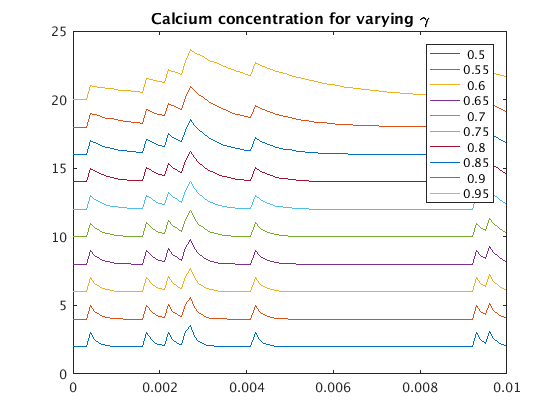
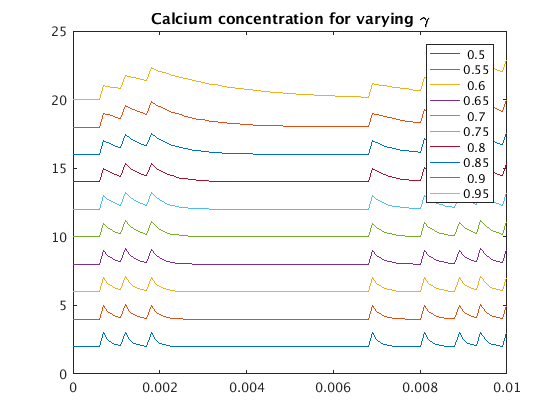
update ARmodel tutorial

diff --git a/tutorial/html/ARmodel.html b/tutorial/html/ARmodel.html
@@ -6,7 +6,7 @@
    <!--
 This HTML was auto-generated from MATLAB code.
 To make changes, update the MATLAB code and republish this document.
-      --><title>Autoregressive Model for Calcium Dynamics</title><meta name="generator" content="MATLAB 9.0"><link rel="schema.DC" href="http://purl.org/dc/elements/1.1/"><meta name="DC.date" content="2016-11-22"><meta name="DC.source" content="ARmodel.m"><style type="text/css">
+      --><title>Autoregressive Model for Calcium Dynamics</title><meta name="generator" content="MATLAB 9.0"><link rel="schema.DC" href="http://purl.org/dc/elements/1.1/"><meta name="DC.date" content="2016-12-06"><meta name="DC.source" content="ARmodel.m"><style type="text/css">
 html,body,div,span,applet,object,iframe,h1,h2,h3,h4,h5,h6,p,blockquote,pre,a,abbr,acronym,address,big,cite,code,del,dfn,em,font,img,ins,kbd,q,s,samp,small,strike,strong,sub,sup,tt,var,b,u,i,center,dl,dt,dd,ol,ul,li,fieldset,form,label,legend,table,caption,tbody,tfoot,thead,tr,th,td{margin:0;padding:0;border:0;outline:0;font-size:100%;vertical-align:baseline;background:transparent}body{line-height:1}ol,ul{list-style:none}blockquote,q{quotes:none}blockquote:before,blockquote:after,q:before,q:after{content:'';content:none}:focus{outine:0}ins{text-decoration:none}del{text-decoration:line-through}table{border-collapse:collapse;border-spacing:0}
 
 html { min-height:100%; margin-bottom:1px; }
@@ -79,7 +79,7 @@ spikes = zeros(dur/dt+1,1);
         spikes(t) = 1;
     <span class="keyword">end</span>
 <span class="keyword">end</span>
-</pre><h2>Applying the AR model to Action Potentials<a name="2"></a></h2><p>Before implementing the calculation, consider what each of the parameters in the model does. Look again at the AR model.</p><p><img src="ARmodel_eq06263262507588699212.png" alt="$c(t) = \sum_{j=1}^p\gamma_jc(t-j)+s(t)$"></p><p>Consider the following for <img src="ARmodel_eq12081968486337205601.png" alt="$p=1$">: * What does the parameter <img src="ARmodel_eq15212781520413577972.png" alt="$\gamma_1$"> represent? * How do changes to <img src="ARmodel_eq15212781520413577972.png" alt="$\gamma_1$"> affect the calcium signal? * What are reasonable values for this parameter?</p><p>Look at what happens when we vary <img src="ARmodel_eq15212781520413577972.png" alt="$\gamma_1$">:</p><pre class="codeinput">p = 1;
+</pre><h2>Applying the AR model to Action Potentials<a name="2"></a></h2><p>Before implementing the calculation, consider what each of the parameters in the model does. Look again at the AR model.</p><p><img src="ARmodel_eq06263262507588699212.png" alt="$c(t) = \sum_{j=1}^p\gamma_jc(t-j)+s(t)$"></p><p>Consider the following for <img src="ARmodel_eq12081968486337205601.png" alt="$p=1$">:</p><div><ul><li>What does the parameter <img src="ARmodel_eq15212781520413577972.png" alt="$\gamma_1$"> represent?</li><li>How do changes to <img src="ARmodel_eq15212781520413577972.png" alt="$\gamma_1$"> affect the calcium signal?</li><li>What are reasonable values for this parameter?</li></ul></div><p>Look at what happens when we vary <img src="ARmodel_eq15212781520413577972.png" alt="$\gamma_1$">:</p><pre class="codeinput">p = 1;
 Gamma = (.5:.05:.99);
 calcium = zeros(length(spikes),numel(Gamma));
 <span class="keyword">for</span> g = 1:numel(Gamma)
@@ -95,16 +95,54 @@ legend(num2str(Gamma'))
 </pre><img vspace="5" hspace="5" src="ARmodel_01.png" alt=""> <p>Can you tell what's happening? What if we overlay the plots of the calcium signal with the highest and lowest values of <img src="ARmodel_eq17096441642737911057.png" alt="$\gamma$">.</p><pre class="codeinput">figure(2); plot((0:dt:dur),calcium(:,[1,g]))
 legend(num2str(Gamma([1,g])'))
 title(<span class="string">'Comparison of traces with high and low \gamma'</span>)
-</pre><img vspace="5" hspace="5" src="ARmodel_02.png" alt=""> <p>Let's do one more comparison: are the peaks in the same place?</p><pre class="codeinput">[~,peaklocs] = arrayfun(@(i) findpeaks(calcium(:,i),[1;g]),<span class="keyword">...</span>
+</pre><img vspace="5" hspace="5" src="ARmodel_02.png" alt=""> <p>Let's do one more comparison: are the peaks in the same place?</p><pre class="codeinput">[~,peaklocs] = arrayfun(@(i) findpeaks(calcium(:,i)),[1;g],<span class="keyword">...</span>
     <span class="string">'uniformoutput'</span>,false);
 disp(cat(2,peaklocs{:}))
-</pre><pre class="codeoutput error">Error using arrayfun
-All of the input arguments must be of the same size and shape.
-Previous inputs had size 13 in dimension 2. Input #3 has size 1
+</pre><pre class="codeoutput">     8     8
+    13    13
+    19    19
+    70    70
+    82    82
+    90    90
+    95    95
 
-Error in ARmodel (line 53)
-[~,peaklocs] = arrayfun(@(i) findpeaks(calcium(:,i),[1;g]),...
-</pre><p class="footer"><br><a href="http://www.mathworks.com/products/matlab/">Published with MATLAB&reg; R2016a</a><br></p></div><!--
+</pre><p>Great! Looks like yes! Now, let's look at what happens when <img src="ARmodel_eq03564621074447017616.png" alt="$p=2$">. We will start by holding <img src="ARmodel_eq15212781520413577972.png" alt="$\gamma_1$"> constant and varying <img src="ARmodel_eq02298748245043383986.png" alt="$\gamma_2$">.</p><pre class="codeinput">p = 2;
+gamma1 = 0.5;
+Gamma = -(0:.05:.5);
+calcium = zeros(length(spikes),numel(Gamma));
+<span class="keyword">for</span> g = 1:numel(Gamma)
+    gamma = [gamma1; Gamma(g)];
+    <span class="keyword">for</span> t = 3:length(spikes)
+        calcium(t,g) = gamma(1)*calcium(t-1,g)+gamma(2)*calcium(t-2,g)+spikes(t);
+    <span class="keyword">end</span>
+    figure(3); plot((0:dt:dur),calcium(:,g)+2*g); hold <span class="string">on</span>
+<span class="keyword">end</span>
+title(<span class="string">'Calcium concentration for \gamma_1=0.5 with varying \gamma_2'</span>)
+hold <span class="string">off</span>;
+legend(num2str(Gamma'))
+</pre><img vspace="5" hspace="5" src="ARmodel_03.png" alt=""> <p>Look at the values of <tt>Gamma</tt>. Why do you think those values were chosen? Change the parameters and see what happens. Try the following:</p><div><ul><li>Gamma = (0:.05:.5);</li><li>Gamma = (.2:.05:.7);</li><li>Gamma = -(1.2:.05:1.7);</li></ul></div><p>See if you can explain the behavior that you see in each plot.</p><p>Can you tell what's happening this time? Let's do the same as before and overlay the plots of the calcium signal with the highest and lowest values of <img src="ARmodel_eq17096441642737911057.png" alt="$\gamma$">.</p><pre class="codeinput">figure(4); plot((0:dt:dur),calcium(:,[1,g]))
+legend(num2str(Gamma([1,g])'))
+title(<span class="string">'Comparison of traces with high and low \gamma_2'</span>)
+</pre><img vspace="5" hspace="5" src="ARmodel_04.png" alt=""> <p>There are some pretty obvious differences now. Okay, now that we have seen that, let's see what happens when we hold <img src="ARmodel_eq02298748245043383986.png" alt="$\gamma_2$"> constant and vary <img src="ARmodel_eq15212781520413577972.png" alt="$\gamma_1$">.</p><pre class="codeinput">p = 2;
+gamma2 = 0.5;
+Gamma = (0:.05:.49);
+calcium = zeros(length(spikes),numel(Gamma));
+<span class="keyword">for</span> g = 1:numel(Gamma)
+    gamma = [Gamma(g); gamma2];
+    <span class="keyword">for</span> t = 3:length(spikes)
+        calcium(t,g) = gamma(1)*calcium(t-1,g)+gamma(2)*calcium(t-2,g)+spikes(t);
+    <span class="keyword">end</span>
+    figure(5); plot((0:dt:dur),calcium(:,g)+2*g); hold <span class="string">on</span>
+<span class="keyword">end</span>
+title(<span class="string">'Calcium concentration for \gamma_2=0.5 with varying \gamma_1'</span>)
+hold <span class="string">off</span>;
+legend(num2str(Gamma'))
+
+<span class="comment">% Compare highest and lowest values of gamma(2)</span>
+figure(6); plot((0:dt:dur),calcium(:,[1,g]))
+legend(num2str(Gamma([1,g])'))
+title(<span class="string">'Comparison of traces with high and low \gamma_1'</span>)
+</pre><img vspace="5" hspace="5" src="ARmodel_05.png" alt=""> <img vspace="5" hspace="5" src="ARmodel_06.png" alt=""> <p>Look at what you see and think about how different values of the AR coefficients change the behavior of the calcium signal.</p><p class="footer"><br><a href="http://www.mathworks.com/products/matlab/">Published with MATLAB&reg; R2016a</a><br></p></div><!--
 ##### SOURCE BEGIN #####
 %% Autoregressive Model for Calcium Dynamics
 % Explain what an autoregressive model is and how this applies
@@ -131,6 +169,7 @@ end
 % $c(t) = \sum_{j=1}^p\gamma_jc(t-j)+s(t)$ 
 %%
 % Consider the following for $p=1$:
+%%
 % * What does the parameter $\gamma_1$ represent? 
 % * How do changes to $\gamma_1$ affect the calcium signal? 
 % * What are reasonable values for this parameter?
@@ -158,8 +197,71 @@ legend(num2str(Gamma([1,g])'))
 title('Comparison of traces with high and low \gamma')
 %%
 % Let's do one more comparison: are the peaks in the same place?
-[~,peaklocs] = arrayfun(@(i) findpeaks(calcium(:,i),[1;g]),...
+
+[~,peaklocs] = arrayfun(@(i) findpeaks(calcium(:,i)),[1;g],...
     'uniformoutput',false);
 disp(cat(2,peaklocs{:}))
+
+%%
+% Great! Looks like yes! Now, let's look at what happens when $p=2$. We
+% will start by holding $\gamma_1$ constant and varying $\gamma_2$.
+p = 2;
+gamma1 = 0.5;
+Gamma = -(0:.05:.5);
+calcium = zeros(length(spikes),numel(Gamma));
+for g = 1:numel(Gamma)
+    gamma = [gamma1; Gamma(g)];
+    for t = 3:length(spikes)
+        calcium(t,g) = gamma(1)*calcium(t-1,g)+gamma(2)*calcium(t-2,g)+spikes(t);
+    end
+    figure(3); plot((0:dt:dur),calcium(:,g)+2*g); hold on
+end
+title('Calcium concentration for \gamma_1=0.5 with varying \gamma_2')
+hold off;
+legend(num2str(Gamma'))
+
+%%
+% Look at the values of |Gamma|. Why do you think those values were chosen?
+% Change the parameters and see what happens. Try the following:
+%% 
+% * Gamma = (0:.05:.5);
+% * Gamma = (.2:.05:.7);
+% * Gamma = -(1.2:.05:1.7);
+%%
+% See if you can explain the behavior that you see in each plot.
+%%
+% Can you tell what's happening this time? Let's do the same as before and
+% overlay the plots of the calcium signal with the highest and
+% lowest values of $\gamma$.
+figure(4); plot((0:dt:dur),calcium(:,[1,g]))
+legend(num2str(Gamma([1,g])'))
+title('Comparison of traces with high and low \gamma_2')
+
+%% 
+% There are some pretty obvious differences now. Okay, now that we have
+% seen that, let's see what happens when we hold $\gamma_2$ constant and
+% vary $\gamma_1$.
+p = 2;
+gamma2 = 0.5;
+Gamma = (0:.05:.49);
+calcium = zeros(length(spikes),numel(Gamma));
+for g = 1:numel(Gamma)
+    gamma = [Gamma(g); gamma2];
+    for t = 3:length(spikes)
+        calcium(t,g) = gamma(1)*calcium(t-1,g)+gamma(2)*calcium(t-2,g)+spikes(t);
+    end
+    figure(5); plot((0:dt:dur),calcium(:,g)+2*g); hold on
+end
+title('Calcium concentration for \gamma_2=0.5 with varying \gamma_1')
+hold off;
+legend(num2str(Gamma'))
+
+% Compare highest and lowest values of gamma(2)
+figure(6); plot((0:dt:dur),calcium(:,[1,g]))
+legend(num2str(Gamma([1,g])'))
+title('Comparison of traces with high and low \gamma_1')
+%%
+% Look at what you see and think about how different values of the AR
+% coefficients change the behavior of the calcium signal. 
 ##### SOURCE END #####
 --></body></html>

diff --git a/tutorial/ARmodel.m b/tutorial/ARmodel.m
@@ -57,17 +57,16 @@ title('Comparison of traces with high and low \gamma')
 disp(cat(2,peaklocs{:}))
 
 %%
-% Great! Looks like yes! Now, let's look at what happens when $p=2$.
+% Great! Looks like yes! Now, let's look at what happens when $p=2$. We
+% will start by holding $\gamma_1$ constant and varying $\gamma_2$.
 p = 2;
 gamma1 = 0.5;
-Gamma = (0:.05:.49);
+Gamma = -(0:.05:.5);
 calcium = zeros(length(spikes),numel(Gamma));
 for g = 1:numel(Gamma)
     gamma = [gamma1; Gamma(g)];
     for t = 3:length(spikes)
         calcium(t,g) = gamma(1)*calcium(t-1,g)+gamma(2)*calcium(t-2,g)+spikes(t);
-%         calcium(t,g) = sum(gamma.*calcium(t-(1:p),g))+spikes(t);
-%         calcium(t,g) = gamma*calcium(t-p,g)+spikes(t);
     end
     figure(3); plot((0:dt:dur),calcium(:,g)+2*g); hold on
 end
@@ -77,5 +76,44 @@ legend(num2str(Gamma'))
 
 %%
 % Look at the values of |Gamma|. Why do you think those values were chosen?
-% What happens if you let |Gamma| go to 0.7 for example? Change the
-% parameters and see what happens.
+% Change the parameters and see what happens. Try the following:
+%% 
+% * Gamma = (0:.05:.5);
+% * Gamma = (.2:.05:.7);
+% * Gamma = -(1.2:.05:1.7);
+%%
+% See if you can explain the behavior that you see in each plot.
+%%
+% Can you tell what's happening this time? Let's do the same as before and
+% overlay the plots of the calcium signal with the highest and
+% lowest values of $\gamma$.
+figure(4); plot((0:dt:dur),calcium(:,[1,g]))
+legend(num2str(Gamma([1,g])'))
+title('Comparison of traces with high and low \gamma_2')
+
+%% 
+% There are some pretty obvious differences now. Okay, now that we have
+% seen that, let's see what happens when we hold $\gamma_2$ constant and
+% vary $\gamma_1$.
+p = 2;
+gamma2 = 0.5;
+Gamma = (0:.05:.49);
+calcium = zeros(length(spikes),numel(Gamma));
+for g = 1:numel(Gamma)
+    gamma = [Gamma(g); gamma2];
+    for t = 3:length(spikes)
+        calcium(t,g) = gamma(1)*calcium(t-1,g)+gamma(2)*calcium(t-2,g)+spikes(t);
+    end
+    figure(5); plot((0:dt:dur),calcium(:,g)+2*g); hold on
+end
+title('Calcium concentration for \gamma_2=0.5 with varying \gamma_1')
+hold off;
+legend(num2str(Gamma'))
+
+% Compare highest and lowest values of gamma(2)
+figure(6); plot((0:dt:dur),calcium(:,[1,g]))
+legend(num2str(Gamma([1,g])'))
+title('Comparison of traces with high and low \gamma_1')
+%%
+% Look at what you see and think about how different values of the AR
+% coefficients change the behavior of the calcium signal. 
